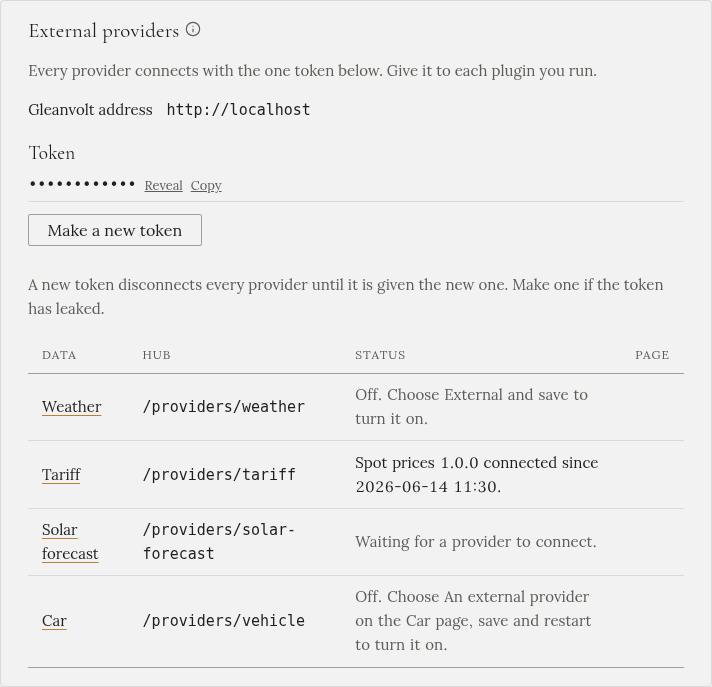
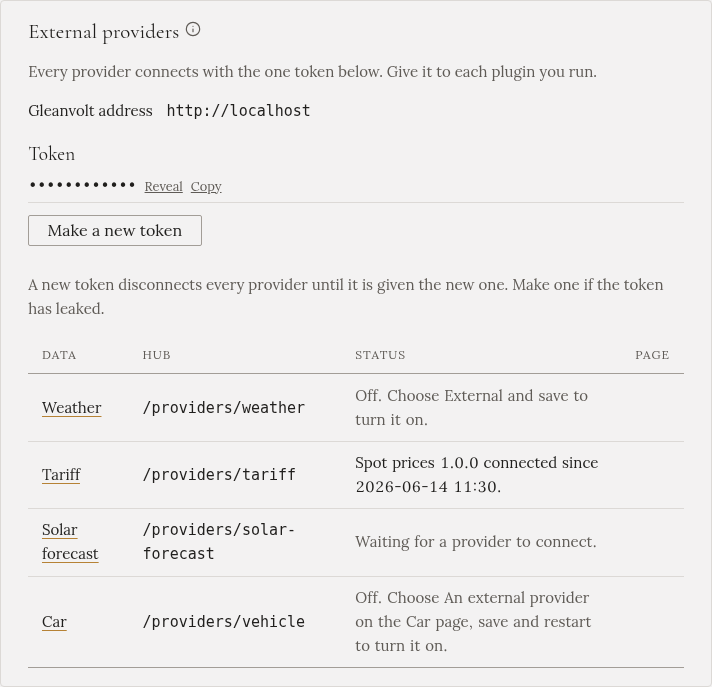
Settings: External providers get their own tab
The section sat above both tabs since #457; it now has its own tab,
/settings/providers, between Installation and Health.

diff --git a/tests/Gleanvolt.Web.Tests/HealthPageTests.cs b/tests/Gleanvolt.Web.Tests/HealthPageTests.cs
@@ -20,7 +20,6 @@ public class HealthPageTests : PageTest
     private readonly FixedTimeProvider _time = new(new DateTimeOffset(2026, 8, 12, 10, 0, 0, TimeSpan.Zero), Prague);
     private readonly FakeServiceShutdown _shutdown = new();
     private readonly FakeSecretStore _secrets = new();
-    private readonly FakeExternalProviders _providers = new();
 
     public HealthPageTests()
     {
@@ -29,24 +28,12 @@ public class HealthPageTests : PageTest
         Services.AddSingleton<TimeProvider>(_time);
         Services.AddSingleton<IServiceShutdown>(_shutdown);
         Services.AddSingleton<ISecretStore>(_secrets);
-
-        // External providers sits above the tabs (#457), so the Health tab renders it too.
-        Services.AddSingleton<IExternalProviders>(_providers);
-        Services.AddSingleton(Microsoft.Extensions.Options.Options.Create(new WebOptions()));
-        Services.AddSingleton(new Gleanvolt.Web.Auth.WebPasswordState(null));
     }
 
     [Fact]
-    public void External_providers_sit_above_the_tabs_here_too()
+    public void External_providers_are_a_tab_of_their_own_not_part_of_health()
     {
-        // #457: the section is above both tabs, and its links lead back to the Installation tab.
-        _providers.Set(new ExternalProviderStatus("weather", "Weather", "/providers/weather", HasToken: false, ExternalProviderState.Waiting));
-
-        var page = Render<Health>();
-
-        Assert.True(page.Markup.IndexOf("id=\"external-providers\"", StringComparison.Ordinal)
-            < page.Markup.IndexOf("settings-tabs", StringComparison.Ordinal));
-        Assert.Equal("/settings#weather-editor", page.Find("#external-providers-weather a").GetAttribute("href"));
+        Assert.Empty(Render<Health>().FindAll("#external-providers"));
     }
 
     /// <summary>

diff --git a/tests/Gleanvolt.Web.Tests/ExternalProvidersSettingsPageTests.cs b/tests/Gleanvolt.Web.Tests/ExternalProvidersSettingsPageTests.cs
@@ -1,0 +1,39 @@
+using Bunit;
+using Microsoft.Extensions.DependencyInjection;
+using Microsoft.Extensions.Options;
+using Gleanvolt.Core.Interfaces;
+using Gleanvolt.Web.Components.Pages;
+
+namespace Gleanvolt.Web.Tests;
+
+/// <summary>
+/// Settings' External providers tab: the section that used to sit above both other tabs, on a page of
+/// its own, with its links leading back to the Installation tab.
+/// </summary>
+public class ExternalProvidersSettingsPageTests : PageTest
+{
+    private readonly FakeExternalProviders _providers = new();
+
+    public ExternalProvidersSettingsPageTests()
+    {
+        Services.AddSingleton<IExternalProviders>(_providers);
+        Services.AddSingleton<TimeProvider>(TimeProvider.System);
+        Services.AddSingleton<IServiceShutdown>(new FakeServiceShutdown());
+        Services.AddSingleton(Options.Create(new WebOptions()));
+        Services.AddSingleton(new Gleanvolt.Web.Auth.WebPasswordState(null));
+        JSInterop.Mode = JSRuntimeMode.Loose;
+    }
+
+    [Fact]
+    public void Shows_the_section_under_its_own_tab()
+    {
+        _providers.Set(new ExternalProviderStatus("charger", "Charger", "/providers/charger", HasToken: false, ExternalProviderState.Waiting));
+
+        var page = Render<ExternalProvidersSettings>();
+
+        Assert.Equal("/settings/providers", page.Find(".settings-tabs a.tab.active").GetAttribute("href"));
+        Assert.True(page.Markup.IndexOf("settings-tabs", StringComparison.Ordinal)
+            < page.Markup.IndexOf("id=\"external-providers\"", StringComparison.Ordinal));
+        Assert.Equal("/settings#charger-editor", page.Find("#external-providers-charger a").GetAttribute("href"));
+    }
+}

diff --git a/tests/Gleanvolt.Web.Tests/SettingsNavigationTests.cs b/tests/Gleanvolt.Web.Tests/SettingsNavigationTests.cs
@@ -23,6 +23,12 @@ public class SettingsNavigationTests : PageTest
     }
 
     [Fact]
+    public void External_providers_are_a_settings_tab()
+    {
+        Assert.Equal(["/settings/providers"], Routes<ExternalProvidersSettings>());
+    }
+
+    [Fact]
     public void Health_is_a_settings_tab_and_keeps_its_old_address()
     {
         Assert.Equal(["/settings/health", "/health"], Routes<Health>());
@@ -30,8 +36,9 @@ public class SettingsNavigationTests : PageTest
 
     [Theory]
     [InlineData(SettingsTab.Installation, "/settings")]
+    [InlineData(SettingsTab.ExternalProviders, "/settings/providers")]
     [InlineData(SettingsTab.Health, "/settings/health")]
-    public void Marks_the_open_half(SettingsTab current, string href)
+    public void Marks_the_open_tab(SettingsTab current, string href)
     {
         var tabs = Render<SettingsTabs>(parameters => parameters.Add(p => p.Current, current));
 
@@ -39,5 +46,14 @@ public class SettingsNavigationTests : PageTest
         Assert.Equal(href, active.GetAttribute("href"));
         Assert.Equal("page", active.GetAttribute("aria-current"));
         Assert.Single(tabs.FindAll("a.tab.active"));
+    }
+
+    [Fact]
+    public void External_providers_sit_between_installation_and_health()
+    {
+        var tabs = Render<SettingsTabs>(parameters => parameters.Add(p => p.Current, SettingsTab.Health));
+
+        Assert.Equal(["/settings", "/settings/providers", "/settings/health"],
+            tabs.FindAll("a.tab").Select(tab => tab.GetAttribute("href")));
     }
 }

diff --git a/tests/Gleanvolt.Web.Tests/PvSystemPageTests.cs b/tests/Gleanvolt.Web.Tests/PvSystemPageTests.cs
@@ -168,9 +168,10 @@ public class PvSystemPageTests : BunitContext
         RenderIn(this, site, car, mqtt, api);
 
     [Fact]
-    public void External_providers_come_first_above_the_tabs_and_the_charger_has_its_own_section()
+    public void External_providers_are_a_tab_of_their_own_and_the_charger_has_its_own_section()
     {
-        // #457: the plugins lead the page, and the charger, a plugin's since #445, is shown again.
+        // The plugins moved from the top of the page to their own tab; the charger, a plugin's since
+        // #445, keeps its section here.
         var providers = new FakeExternalProviders();
         providers.Set(new ExternalProviderStatus("charger", "Charger", "/providers/charger", HasToken: true, ExternalProviderState.Connected,
             ProviderId: "shelly-topac", ProviderName: "Shelly TopAC", ProviderVersion: "1.0",
@@ -178,10 +179,7 @@ public class PvSystemPageTests : BunitContext
 
         var page = RenderIn(this, providers: providers);
 
-        var markup = page.Markup;
-        Assert.True(markup.IndexOf("id=\"external-providers\"", StringComparison.Ordinal)
-            < markup.IndexOf("settings-tabs", StringComparison.Ordinal));
-        Assert.Equal("/settings#charger-editor", page.Find("#external-providers-charger a").GetAttribute("href"));
+        Assert.Empty(page.FindAll("#external-providers"));
 
         var charger = page.Find("#charger-editor");
         Assert.Contains("Shelly TopAC", charger.QuerySelector("#external-charger-state")!.TextContent);

diff --git a/tests/Gleanvolt.Web.Tests/ExternalProviderPanelTests.cs b/tests/Gleanvolt.Web.Tests/ExternalProviderPanelTests.cs
@@ -31,7 +31,7 @@ public class ExternalProviderPanelTests : BunitContext
     [Fact]
     public void LeavesTheAddressAndHubToTheExternalProvidersSection()
     {
-        // #457: where providers connect is said once, at the top of Settings.
+        // #457: where providers connect is said once, on Settings' External providers tab.
         var panel = RenderPanel();
 
         Assert.Empty(panel.FindAll("#external-tariff-address"));
@@ -46,7 +46,7 @@ public class ExternalProviderPanelTests : BunitContext
         Assert.Contains("Make the provider token first", panel.Find("#external-tariff-state").TextContent);
         var pointer = panel.Find("#external-tariff-token-state");
         Assert.Contains("warning", pointer.ClassList);
-        Assert.Equal("/settings#external-providers", pointer.QuerySelector("a")!.GetAttribute("href"));
+        Assert.Equal("/settings/providers", pointer.QuerySelector("a")!.GetAttribute("href"));
         Assert.Empty(panel.FindAll("#external-tariff-token"));
     }
 

diff --git a/tests/Gleanvolt.Web.Screenshots/SettingsScreenshots.cs b/tests/Gleanvolt.Web.Screenshots/SettingsScreenshots.cs
@@ -216,7 +216,7 @@ public sealed class SettingsScreenshots : ScreenshotTest
         _providers.Set(new ExternalProviderStatus("vehicle", "Car", "/providers/vehicle", HasToken: true, ExternalProviderState.Off));
         _providers.Token = "gvp_5mQ2xV9tL4pR8wK1nB7yC3dF6hJ0sA2eG5iU8oZ4qW1";
 
-        Capture(RenderPage<PvSystem>("/settings"), "settings-external-providers", selector: "#external-providers");
+        Capture(RenderPage<ExternalProvidersSettings>("/settings/providers"), "settings-external-providers", selector: "#external-providers");
     }
 
     /// <summary>The API switched on, with the key the Home Assistant integration uses (#393).</summary>

diff --git a/src/Gleanvolt.Web/Components/SettingsTab.cs b/src/Gleanvolt.Web/Components/SettingsTab.cs
@@ -1,8 +1,9 @@
 namespace Gleanvolt.Web.Components;
 
-/// <summary>The halves of the Settings page, as <see cref="SettingsTabs"/> marks them.</summary>
+/// <summary>The tabs of the Settings page, as <see cref="SettingsTabs"/> marks them.</summary>
 public enum SettingsTab
 {
     Installation,
+    ExternalProviders,
     Health,
 }

diff --git a/docs/IMPLEMENTATION_LOG.md b/docs/IMPLEMENTATION_LOG.md
@@ -4,6 +4,28 @@ Reverse-chronological. Newest entry at the top.
 
 ---
 
+## 2026-11-26 — External providers get their own Settings tab
+
+**What.** Settings has three tabs: Installation (`/settings`), External providers (`/settings/providers`, new page
+`ExternalProvidersSettings.razor`) and Health (`/settings/health`). `ExternalProvidersForm` is no longer rendered above
+the tabs on the Installation and Health pages; it is the whole of the new tab. `SettingsTab` gains `ExternalProviders`,
+`SharedText` gains `SettingsExternalProviders` and `SettingsText` gains `ExternalProvidersPageTitle` (en + cs).
+
+**Why.** With the section above both tabs (#457), the top of Settings read as the page itself and pushed the
+Installation forms and the tab strip down; the owner found the page more confusing than before.
+
+**Links.** The token pointers in `ExternalProviderPanel` and the form's fallback link went to
+`/settings#external-providers`; they now go to `/settings/providers`. The kinds' links in the section were already
+whole paths to the Installation tab's sections, so they keep working from the new tab.
+
+**Files.** `src/Gleanvolt.Web/Components/Pages/ExternalProvidersSettings.razor` (new), `PvSystem.razor`, `Health.razor`,
+`SettingsTab.cs`, `SettingsTabs.razor`, `ExternalProviderPanel.razor`, `ExternalProvidersForm.razor`, the
+`SharedText`/`SettingsText` resources; tests (`ExternalProvidersSettingsPageTests` new, navigation, Health, PvSystem,
+panel); the screenshot fixture and regenerated Settings screenshots; the manual's settings, tariff, solar forecast and
+car pages (en + cs).
+
+---
+
 ## 2026-11-25 — Charger plugins own the address, the port and the search (#459, #461)
 
 **What.** `PluginFrame` (`Gleanvolt.Chargers.Hosting`) no longer renders the address and search sections. Its
